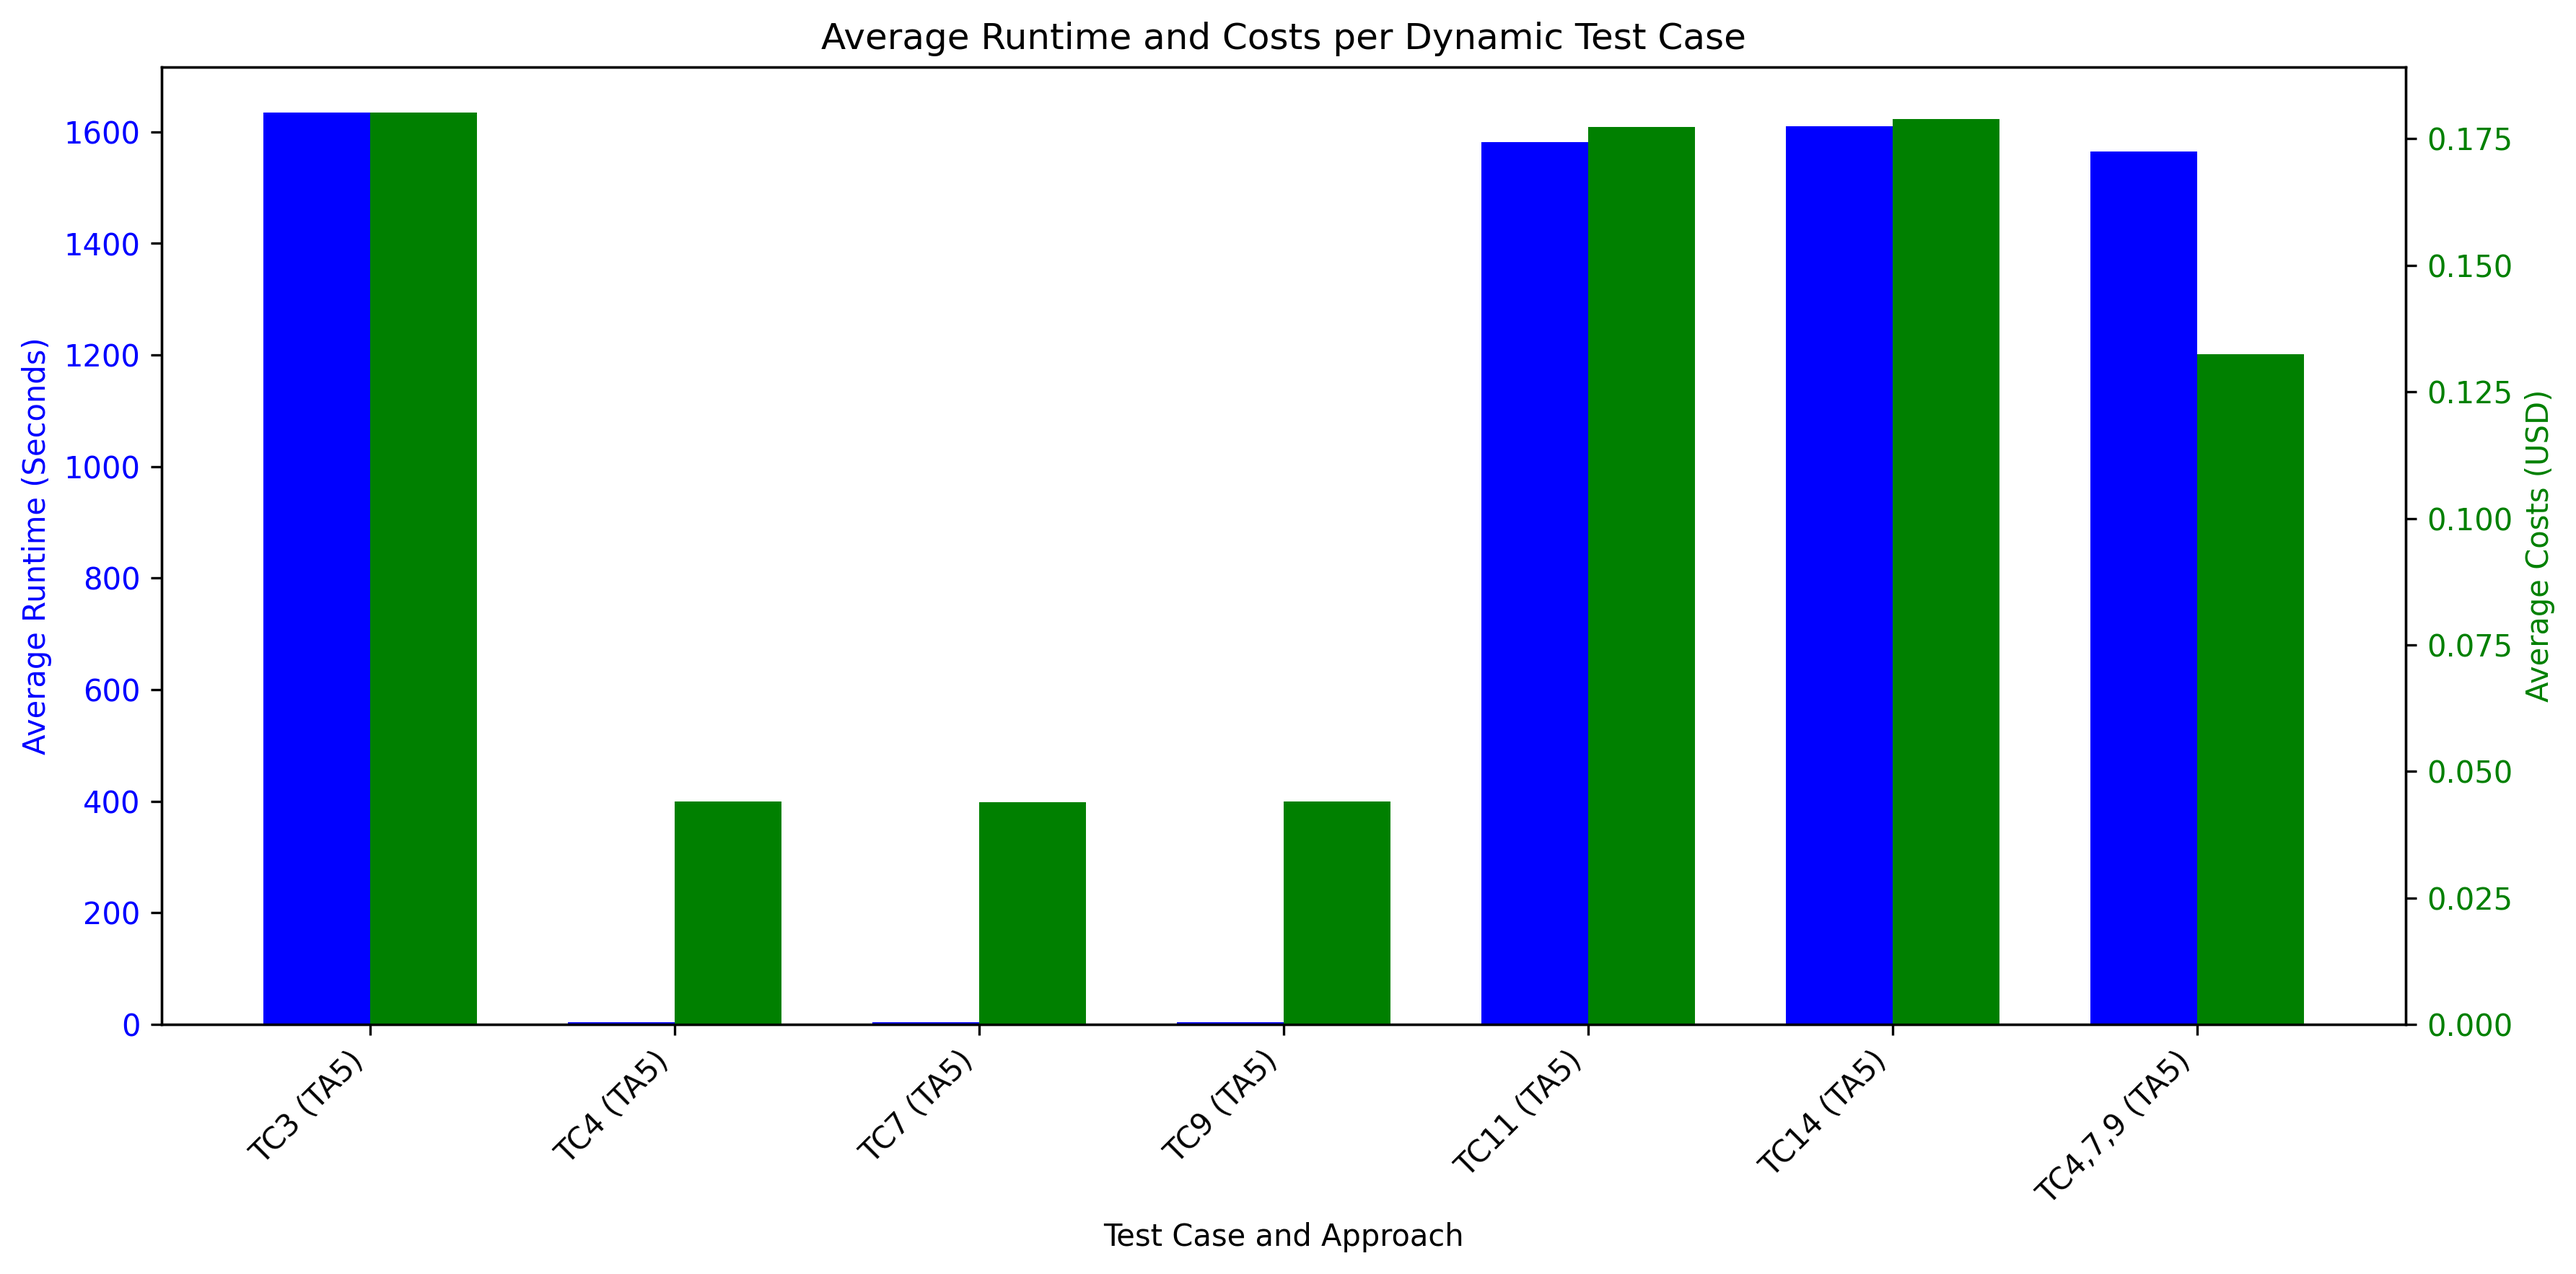
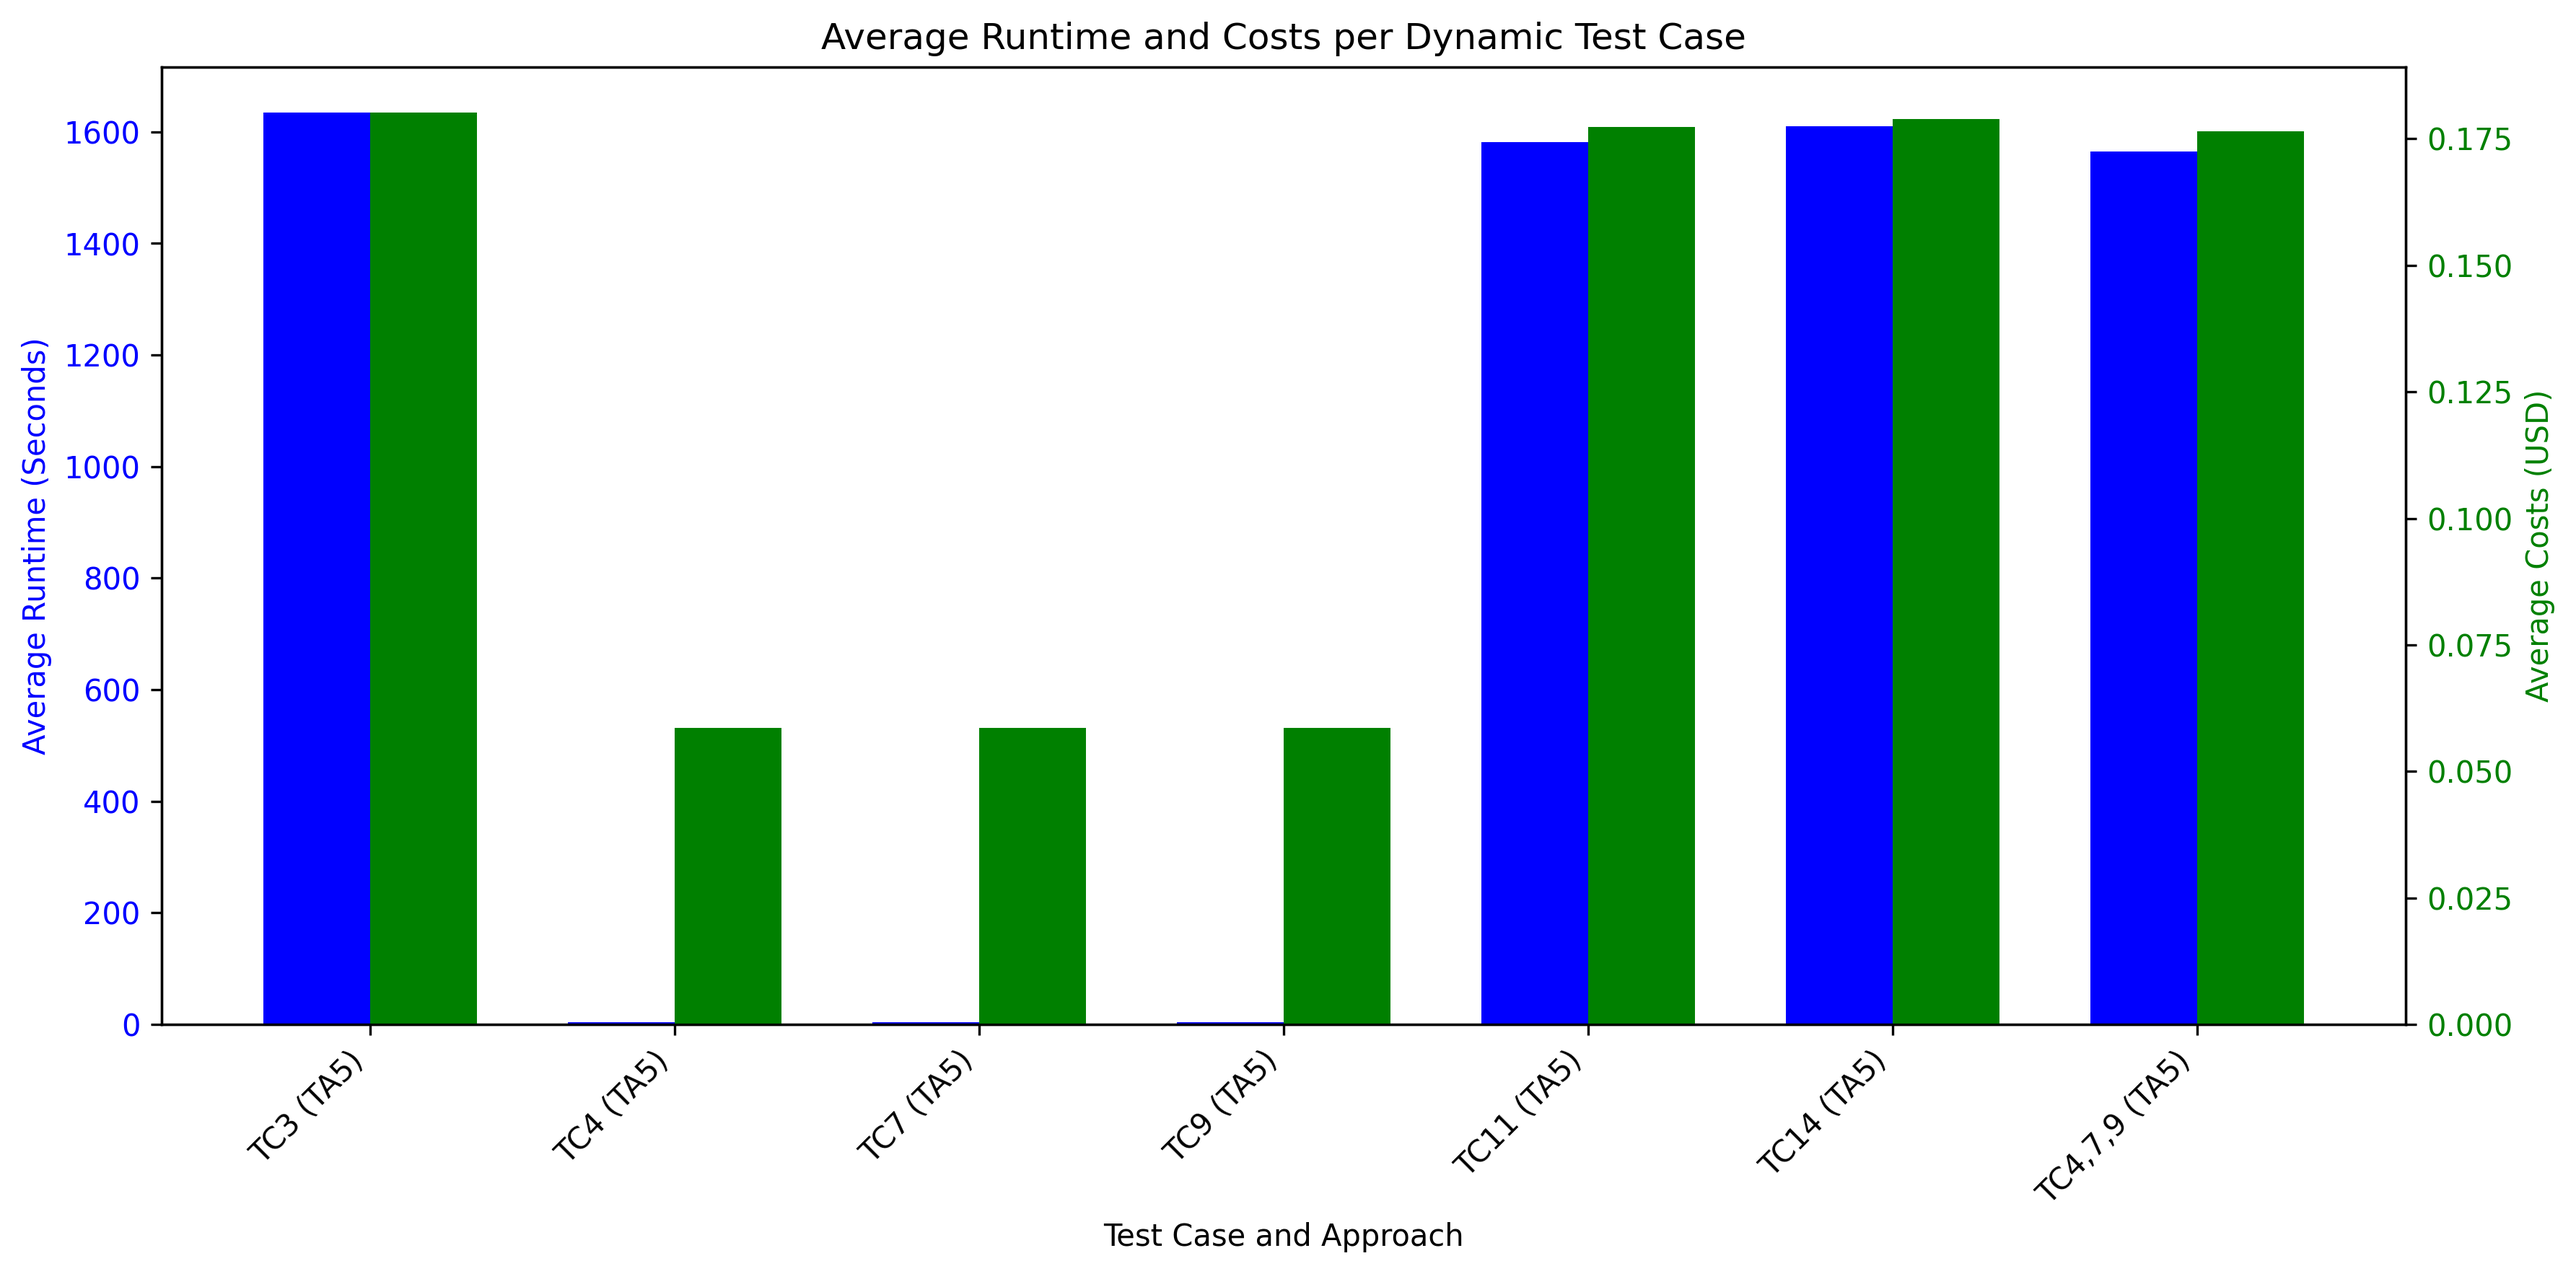
recalculated costs after fixing split-by calculation

diff --git a/evaluation/scripts/utils/utils.py b/evaluation/scripts/utils/utils.py
@@ -1,5 +1,10 @@
 import pandas as pd
 import os
+import subprocess
+
+# Constants for script for cost calculation and cost breakdown file paths
+CALCULATE_COSTS_SCRIPT_PATH = '../../terraform/scripts/calculate_costs.py'
+COST_BREAKDOWN_FILE_PATH = '../../measurements/infracost_build_1.json'
 
 
 def read_csv_to_dataframe(data_path):
@@ -104,8 +109,6 @@ def flatten_multi_tc_apply_destroy_cycles(original_data, delete_originals=True):
         if in_sequence and row['build'] == start_build:
             # Accumulate data for the sequence
             runtime_sum += row['runtime(seconds)']
-            if not pd.isna(row['costs(USD)']):
-                cost_sum += row['costs(USD)']
 
             if row['test_tool'] != 'terraform destroy':
                 # Process non-destroy test tools
@@ -116,7 +119,17 @@ def flatten_multi_tc_apply_destroy_cycles(original_data, delete_originals=True):
                     defect_category = -1  # Mark as -1 if defect categories differ
 
             if row['test_tool'] == 'terraform destroy':
-                # End of sequence, create new entry
+                # End of sequence, call external script for cost calculation
+                subprocess_result = subprocess.run(
+                    [
+                        'python3', CALCULATE_COSTS_SCRIPT_PATH, 
+                        '--infracost-json', COST_BREAKDOWN_FILE_PATH, 
+                        '--runtime', str(int(runtime_sum)),
+                        '--split-by', '1'
+                    ],
+                    capture_output=True, text=True
+                )
+                cost_sum = round(float(subprocess_result.stdout.strip()), 5)
                 test_cases_list.sort()
                 sorted_test_cases = int(''.join(map(str, test_cases_list)))
                 new_entry = {
